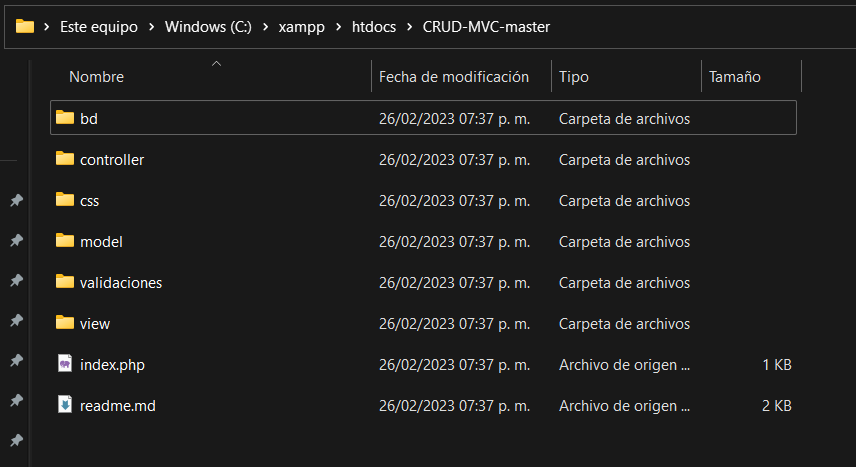
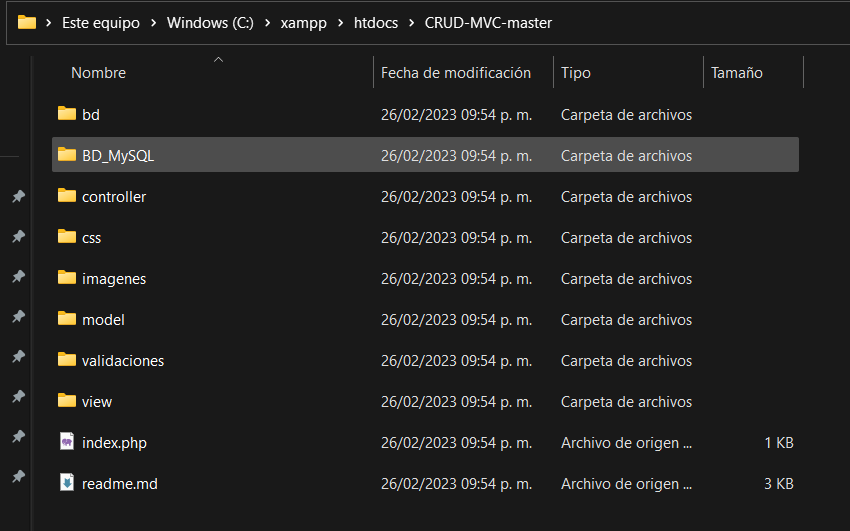
terminado

diff --git a/readme.md b/readme.md
@@ -43,7 +43,64 @@ Para poder utilizar este proyecto en cualquier computadora necesitaremos ciertos
 <img src="./imagenes/paso7.png"/>
 <img src="./imagenes/paso7-1.png"/>
 
-- Ya que tengamos creada nuestra base de datos nos abrir la siguiente interfaz donde se crearía la base de datos pero como nosotros ya la tenemos solo la vamos a exportar, no dirigiríamos a la carpeta donde extrajimos el .zip del repositorio ```C:\xampp\htdocs\CRUD-MVC-master``` y nos dirigiremos a la carpeta de 
+- Ya que tengamos creada nuestra base de datos nos abrir la siguiente interfaz donde se crearía la base de datos pero como nosotros ya la tenemos solo la vamos a exportar, no dirigiríamos a la carpeta donde extrajimos el .zip del repositorio ```C:\xampp\htdocs\CRUD-MVC-master``` y nos dirigiremos a la carpeta de ```BD_MySQL``` 
+<img src="./imagenes/paso8.png"/>
+<img src="./imagenes/paso8-1.png"/>
+
+- Dentro de esa carpeta encontraremos el archivo sql que nos generara nuestra base de datos.
+<img src="./imagenes/paso9.png"/>
+
+- Nos dirigiremos nuevamente a la base de datos que habíamos creado llamada ```crud_mvc``` en phpMyAdmin y le daremos click en el apartado de importar y subiremos el archivo.
+<img src="./imagenes/paso10.png"/>
+<img src="./imagenes/paso10-1.png"/>
+<img src="./imagenes/paso10-2.png"/>
+
+- Ahora podemos ver que nuestro archivo ya esta como archivo seleccionado y ahora solo iremos a la parte baja y daremos click en el botón de importar.
+<img src="./imagenes/paso11.png"/>
+<img src="./imagenes/paso11-1.png"/>
+
+- Una vez que importes se mostrara los siguiente mensaje que son las sentencias necesarias de SQL para que la base de datos pueda crearse correctamente.
+<img src="./imagenes/paso12.png"/>
+<img src="./imagenes/paso12-1.png"/>
+
+- Hasta este momento ya terminamos toda la configuración del proyecto, ahora nos iremos a la barra del buscador y escribiremos ```localhost/CRUD-MVC-master/``` y nos abrirá nuestro proyecto completamente funcionando.
+<img src="./imagenes/paso13.png"/>
+<img src="./imagenes/paso13-1.png"/>
+
+## Utilización del CRUD
+
+Ahora aprenderemos a como es que este funciona, primero que todo este crud almacena todo los registros en nuestra base de datos de MySQL por lo que de ahi saca toda la información a la forma de listar, es decir esta es una forma de representar toda la información guardada y la manipulación de esta misma, pero de una forma mas digerible para el usuario.
+
+### Creación de producto
+Para la creación de nuestro producto solo debemos llenar nuestros campos y seleccionar de los listados, y después daremos click en insertar, luego de esto veremos que en la tabla del lista de productos se encontrara el producto que hemos agregado.
+<img src="./imagenes/insertar1.png"/>
+<img src="./imagenes/insertar2.png"/>
+
+### Búsqueda de un producto
+Para la búsqueda de cualquiera de nuestros productos debemos escribir en la barra de búsqueda cualquier cosa que queramos encontrar y este nos mostrara solo esos registros que coincidan.
+<img src="./imagenes/buscar.png"/>
+
+### Modificación de un producto
+Al momento de querer cambiar algún producto nos dirigiremos al listado de los productos, una vez que veamos el producto que queramos modificar, daremos click a el botón de modificar que es amarillo.
+
+<img src="./imagenes/actualizar.png"/>
+
+Ahora al momento de dar click en modificar nos rellenara nuestro formulario de producto, haremos los cambios y daremos click en guardar.
+<img src="./imagenes/actualizar2.png"/>
+
+Y ahora si nos dirigimos al listado de productos podremos ver que se han realizado los cambios.
+<img src="./imagenes/actualizar3.png"/>
+
+### Eliminación de un producto
+Para la eliminación de un producto es muy sencillo, pues lo único que debemos de hacer es ir hacia el listado de productos, dar click en el botón de eliminar y se nos mostrara un alerta de si deseamos eliminar el producto, si damos click a confirmar aceptar eliminara el registro y si lo cancelamos no se afectara nada en el archivo, al dar click el registro del producto quedara eliminado tanto del listado como de la base de datos.
+<img src="./imagenes/eliminar.png"/>
+<img src="./imagenes/confirmacion.png"/>
+
+Y como podemos observar se eliminara nuestro registro de tanto del listado como de la base de datos.
+<img src="./imagenes/eliminar1.png"/>
+
+
+
 
 
 
